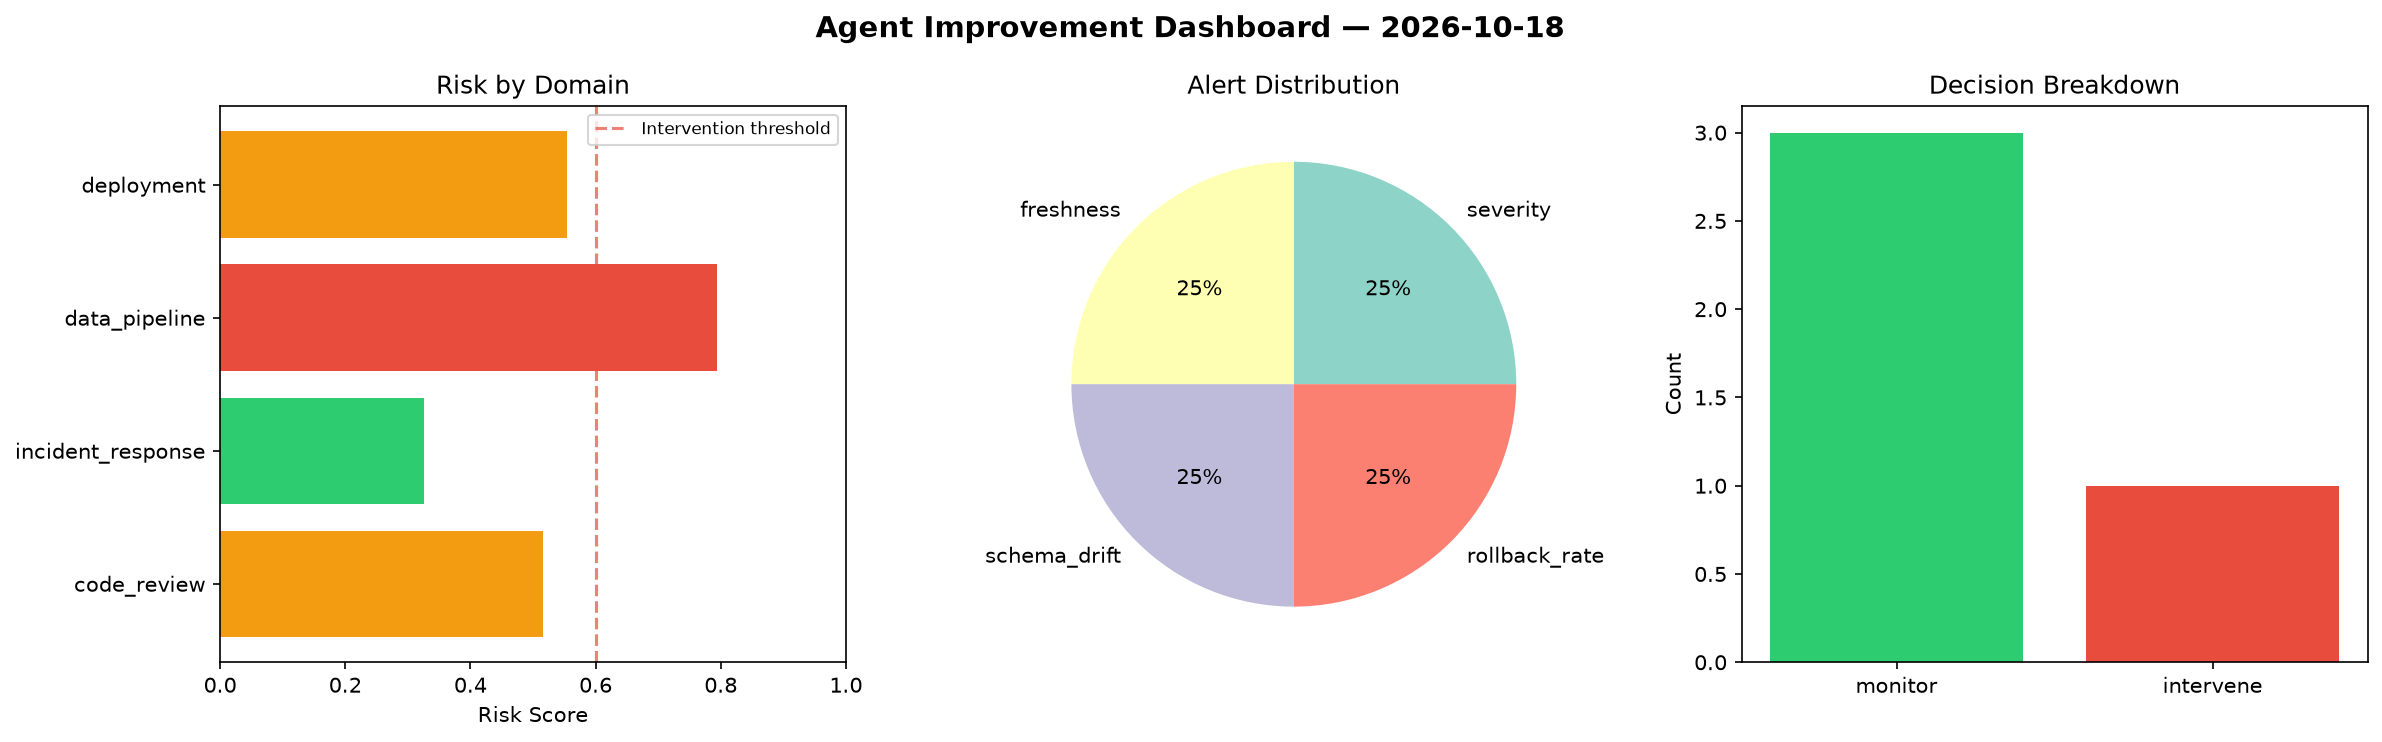
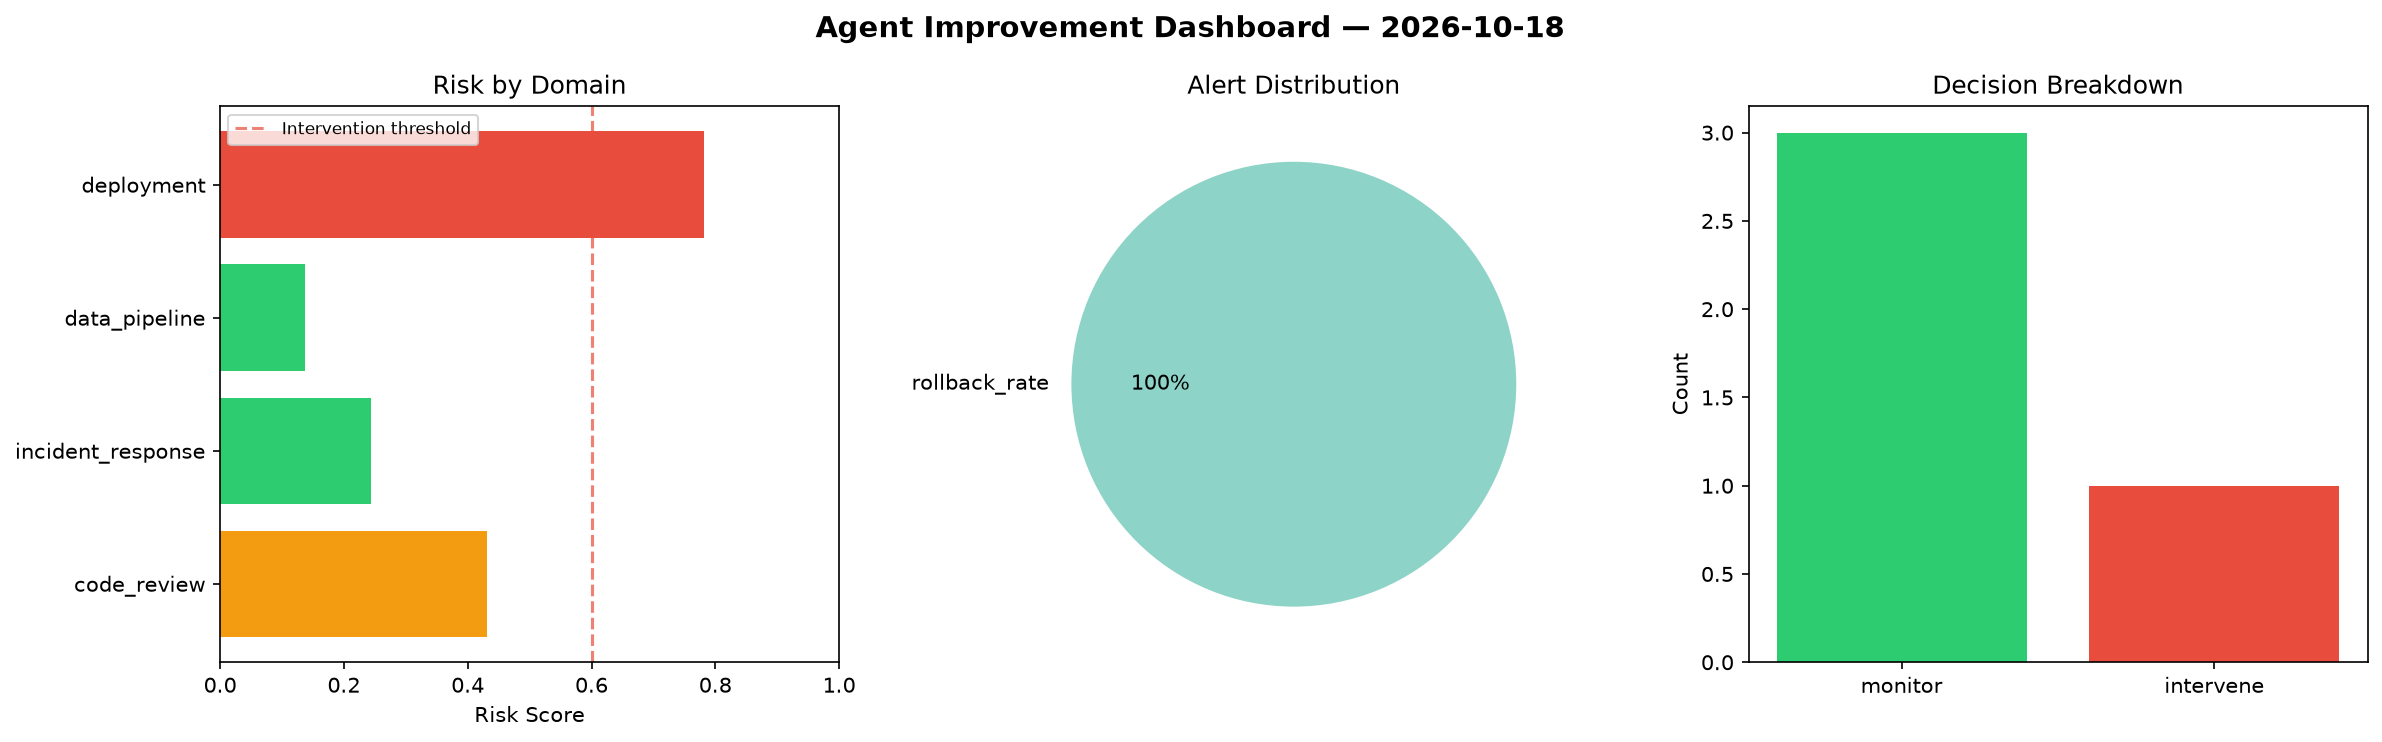
agent-improvement: daily cycle 2026-10-18T12:36

diff --git a/logs/2026-10-18.md b/logs/2026-10-18.md
@@ -1,6 +1,6 @@
 # Agent Improvement Report — 2026-10-18
 
-**Cycle ID:** `dbefabe0` | **Avg Risk:** 0.5476 | **Interventions:** 1/4
+**Cycle ID:** `87c7114b` | **Avg Risk:** 0.3985 | **Interventions:** 1/4
 
 ![Dashboard](2026-10-18_dashboard.png)
 
@@ -10,18 +10,18 @@
 
 | Domain | Risk Score | Decision | Alerts |
 |--------|-----------|----------|--------|
-| code_review | 0.5164 | monitor | none |
-| incident_response | 0.3254 | monitor | severity |
-| data_pipeline | 0.7946 | intervene | freshness, schema_drift |
-| deployment | 0.5541 | monitor | rollback_rate |
+| code_review | 0.4316 | monitor | none |
+| incident_response | 0.2445 | monitor | none |
+| data_pipeline | 0.1366 | monitor | none |
+| deployment | 0.7813 | intervene | rollback_rate |
 
 ## Delta vs Yesterday
 
 | Domain | Today | Yesterday | Change |
 |--------|-------|-----------|--------|
-| code_review | 0.5164 | 0.3352 | 📈 54.1% |
-| incident_response | 0.3254 | 0.5277 | 📉 -38.3% |
-| data_pipeline | 0.7946 | 0.6106 | 📈 30.1% |
-| deployment | 0.5541 | 0.4881 | 📈 13.5% |
+| code_review | 0.4316 | 0.3352 | 📈 28.8% |
+| incident_response | 0.2445 | 0.5277 | 📉 -53.7% |
+| data_pipeline | 0.1366 | 0.6106 | 📉 -77.6% |
+| deployment | 0.7813 | 0.4881 | 📈 60.1% |
 
 **Refinement:** `{'adjustment': 'tighten_thresholds', 'trend': 'degrading', 'window': 4}`
